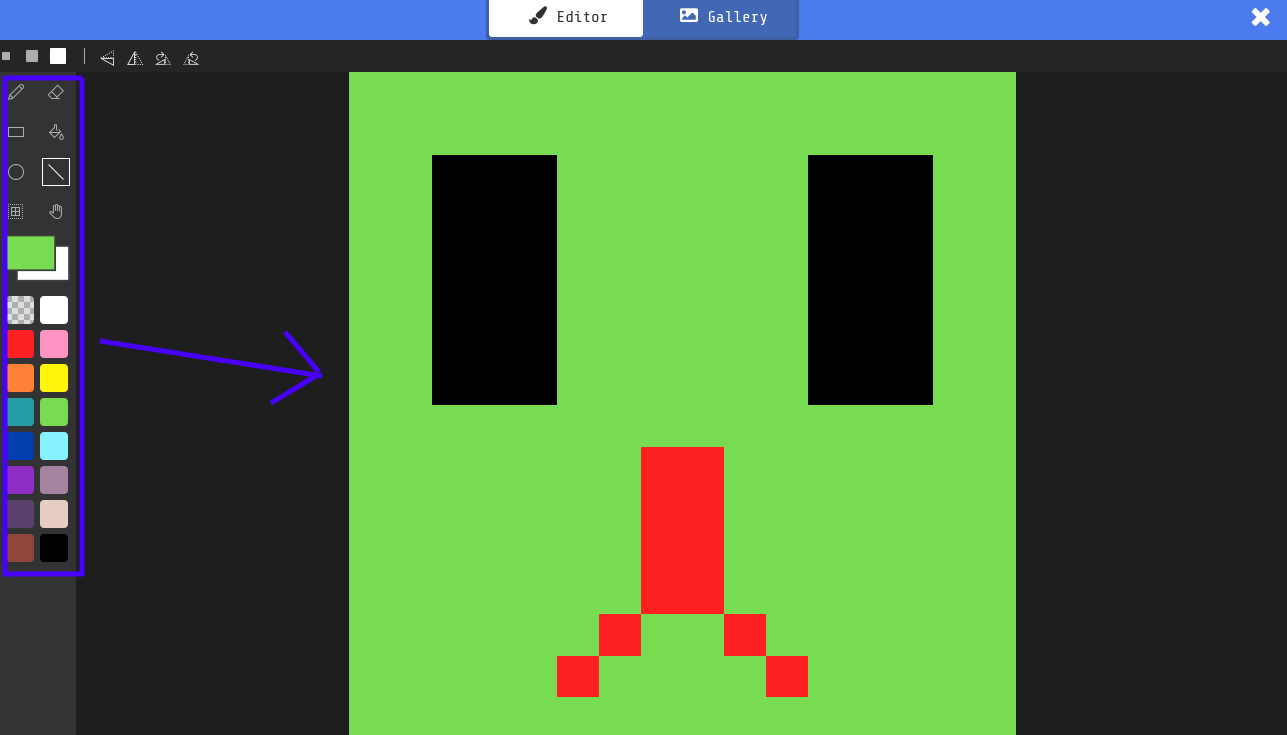
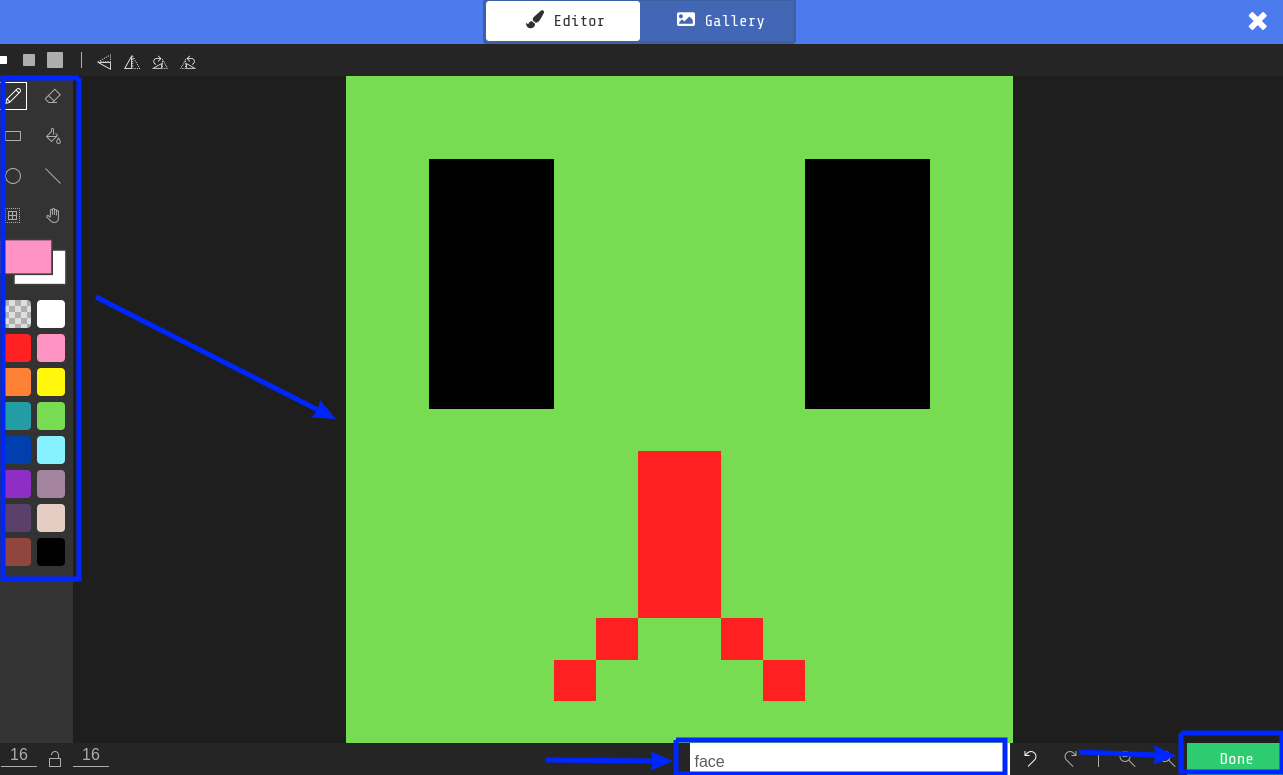
eyes 2024 movement

diff --git a/eyes-2024/index.html b/eyes-2024/index.html
@@ -193,6 +193,175 @@
 
       <p><img src="res/snake-head.png" alt="" /></p>
 
+      <p>Once you are happy, be sure to name your image as <code class="language-plaintext highlighter-rouge">face</code> and save it with Done. We’ll be able to look at this later.</p>
+
+    </div></div></section>
+<section id="addingourfaceasourplayer"><button class="collapsible">Adding our face as our player</button><div class="text-content"><div class="text-inner">
+
+      <p>To add our face as our player, let’s start with the Block interface.</p>
+
+      <p>Go to Sprites and grab the top Block. Then add it to the OnStart receptical.</p>
+
+      <p>All of the lines of code in the <code class="language-plaintext highlighter-rouge">on start</code> block will run every time the game starts up!</p>
+
+      <p><img src="res/adding-the-face.png" alt="" /></p>
+
+      <p>This will result in your player being in your game:</p>
+
+      <p><img src="res/player-in-game.png" alt="" /></p>
+
+      <p>Let’s take a peak at what this looks like in Python code:</p>
+
+      <p><img src="res/python.png" alt="" /></p>
+
+      <p>Hint: You may need to use the dropdown to change from JavaScript to Python</p>
+
+      <p>We can see a few things here, we have created a new variable called <code class="language-plaintext highlighter-rouge">mySprite</code>. This invoked a constructor of the sprites class called create, which looked in our assets folder for the face asset, and set the SpriteKind to player.</p>
+
+      <p>Note: Switching back and forth between Blocks view and Python view can occasionally mess up your Blocks layout or your python formatting. We will go back and forth for a bit before committing to Python.</p>
+
+    </div></div></section>
+<section id="movingourplayer"><button class="collapsible">Moving our player</button><div class="text-content"><div class="text-inner">
+
+      <p>Let’s hop back to the Blocks view, and start to create the code to move our player around:</p>
+
+      <p><img src="res/pressing-a-button.png" alt="" /></p>
+
+      <p>This creates an event, that occurs whenever a button is pressed:</p>
+
+      <p><img src="res/change-a-property.png" alt="" /></p>
+
+      <p>When the event occurs, we want to change a property of our sprite, namely the x-position. Configure it as follows:</p>
+
+      <p><img src="res/change-position.png" alt="" /></p>
+
+      <p>We want to move our player 16 pixels at a time, as this is the space of one tile.</p>
+
+      <p>Hint: The game world in MakeCode arcade uses an XY coordinate system, like you saw in math, but the origin is at the top left, and with the y-axis flipped so that positive y-values move down:</p>
+
+      <p><img src="res/coordinate-system.png" alt="" /></p>
+
+      <p>This means that, to move left, we had to move in the negative-x direction. Based on this knowledge, can you figure out how to set the remaining 3 directions? Try to figure it out before you peek the solution ahead.</p>
+
+      <p><img src="res/moving-in-four-directions.png" alt="" /></p>
+
+      <p>Demo your game, you should be able to move your snake head all around the game.</p>
+
+      <p>However, if you have actually played snake, you know that the snake does not move when you press buttons, but instead moves automatically at a set interval. In the next section we will modify our code to make the snake instead move automatically.</p>
+
+    </div></div></section>
+<section id="gameupdateloopautomovingsnake"><button class="collapsible">Game Update Loop - Auto moving snake</button><div class="text-content"><div class="text-inner">
+
+      <p>Let’s talk about the idea of a game loop. This is a piece of code that runs at a set interval. MakeCode Arcade had a built in function for this, but we are going to create our own so that we can modify how fast the game runs. For this we will need a variable and a loop.</p>
+
+      <p>Start by creating a new variable called delay. This will be set to 640 (ms) in the On Start function.</p>
+
+      <p><img src="res/set-a-variable.png" alt="" /></p>
+
+      <p>We want to rename the variable to delay</p>
+
+      <p><img src="res/rename.png" alt="" /></p>
+
+      <p>Set the variable name to <code class="language-plaintext highlighter-rouge">delay</code> and the value to <code class="language-plaintext highlighter-rouge">640</code>, and then sync it into the <code class="language-plaintext highlighter-rouge">on start</code> block</p>
+
+      <p><img src="res/delay.png" alt="" /></p>
+
+      <p>Now we will use this delay in a forever loop. We will grab the <code class="language-plaintext highlighter-rouge">forever</code> block from the Loops module, and place in the Pause function.</p>
+
+      <p><img src="res/forever-and-pause.png" alt="" /></p>
+
+      <p>Put them together, but rather than using a fixed value for the pause, we are going to use the delay variable we chose earlier:</p>
+
+      <p><img src="res/grabbing-a-variable.png" alt="" /></p>
+
+      <p>Let’s put it all together:</p>
+
+      <p><img src="res/forever-pause-delay.png" alt="" /></p>
+
+      <p>This block of code will run, and then pause for our delay time, about 2/3rds of a second. After that any code that follows it will run. Once that code is complete, it will loop again, beginning with the pause. This allows us to make a game loop with variable time, which will be useful for later on to speed up the game dynamically as the player gets better at it.</p>
+
+      <p>Let’s try automatically moving our player down each update cycle by copying the “down” instruction from our controller and placing it after the delay.</p>
+
+      <p>Hint: You can copy and paste a block by selecting it, then pressing ctrl+c then ctrl+v.</p>
+
+      <p><img src="res/auto-down.png" alt="" /></p>
+
+      <p>When you play now, you should see your player basically fall off the screen. We will handle that in the next section.</p>
+
+    </div></div></section>
+<section id="snakesteering"><button class="collapsible">Snake Steering</button><div class="text-content"><div class="text-inner">
+
+      <p>We don’t want our player to only move down. We want it to move in a direction you chooose. This means it needs to</p>
+      <ul>
+        <li>know which direction it’s currently going</li>
+        <li>try to change direction if you press a button
+          <ul>
+            <li>But it can only turn to one of the two sides. It can’t reverse, and going forward again wouldn’t change anything.</li>
+          </ul>
+        </li>
+      </ul>
+
+      <p>This is going to require two varaibles, and some conditional logic.</p>
+
+      <p>Let’s start by setting up two new variables in our starting function:</p>
+
+      <p>create variables called <code class="language-plaintext highlighter-rouge">current_direction</code> and <code class="language-plaintext highlighter-rouge">next_direction</code>.</p>
+
+      <p>Hint: new variable blocks will default to variables you have already created. To make an new variable, explicitly click New variable…</p>
+
+      <p><img src="res/new-variable.png" alt="" /></p>
+
+      <p>We want to set these variables to a new type, <code class="language-plaintext highlighter-rouge">Text</code>. To do this we are going to need to grab some Text boxes from the Text function and drag them in.</p>
+
+      <p><img src="res/text-directions.png" alt="" /></p>
+
+      <p>This will allow you to type text in the box. Type <code class="language-plaintext highlighter-rouge">down</code> in each box, so that your new variables look as follows:</p>
+
+      <p><img src="res/steering-variables.png" alt="" /></p>
+
+      <p>Next let’s use conditional logic to move our snake based on the direction it is currently moving:</p>
+
+      <p>We will need a condition block to check which direction it is moving, and go from there:</p>
+
+      <p><img src="res/logic.png" alt="" /></p>
+
+      <p>What this block does is checks if a condition is met, and if it is performs some code. Otherwise it runs some other code. We acually need 4 branches, one for each direction. You can do this by hitting the (+) on the bottom of the block.</p>
+
+      <p><img src="res/four-branches.png" alt="" /></p>
+
+      <p>What we want to do in these four branches is see which direction is set, and based on that, move our player. Let’s grab a text comparison block:</p>
+
+      <p><img src="res/text-comparison-block.png" alt="" /></p>
+
+      <p>Let’s put it into the top three branches of our comparator:</p>
+
+      <p><img src="res/setting-up-comparisons.png" alt="" /></p>
+
+      <p>On the left side of each of these, we want to use our <code class="language-plaintext highlighter-rouge">current_direction</code> variable. On the right side, we need to type in the words <code class="language-plaintext highlighter-rouge">left</code>, <code class="language-plaintext highlighter-rouge">right</code>, and <code class="language-plaintext highlighter-rouge">up</code>. We won’t need to do down, since by process of elimination, if we are not moving in any of these three directions, we must be moving down!</p>
+
+      <p><img src="res/setting-up-comparisons-2.png" alt="" /></p>
+
+      <p>Now we just need to move the code for moving from the controller to the conditions in the appropriate place:</p>
+
+      <p><img src="res/moving-around-code.png" alt="" /></p>
+
+      <p>Now we will move correctly based on the direction. However, our controllers are empty.</p>
+
+      <p>Let’s fix this by using them to set the <code class="language-plaintext highlighter-rouge">next_direction</code> variable in each of the four directions. You should know how to do this by now. As a hint, don’t forget to grab the Text data type from the Text block in advanced:</p>
+
+      <p><img src="res/setting-directions.png" alt="" /></p>
+
+      <p>The reason we have two sets of directions, next_direction and current_direction, is because our snake can only go from some directions to others. It can’t go backwards, and it can’t go forwards. This means this is actually a rudimentary finite state machine.</p>
+
+      <p>However, currently there are no limits on how far your snake can move.</p>
+
+      <p>Let’s use some conditional logic next to make sure the snake stays in bounds</p>
+
+    </div></div></section>
+<section id="losingifwegooutofbounds"><button class="collapsible">Losing if we go out of bounds</button><div class="text-content"><div class="text-inner">
+
+      <p>To make our snake die if we go out of bounds, we will need to use some conditional logic to check it’s position, and if it is off the screen, give a game over:</p>
+
     </div></div></section>
 
     </main>
